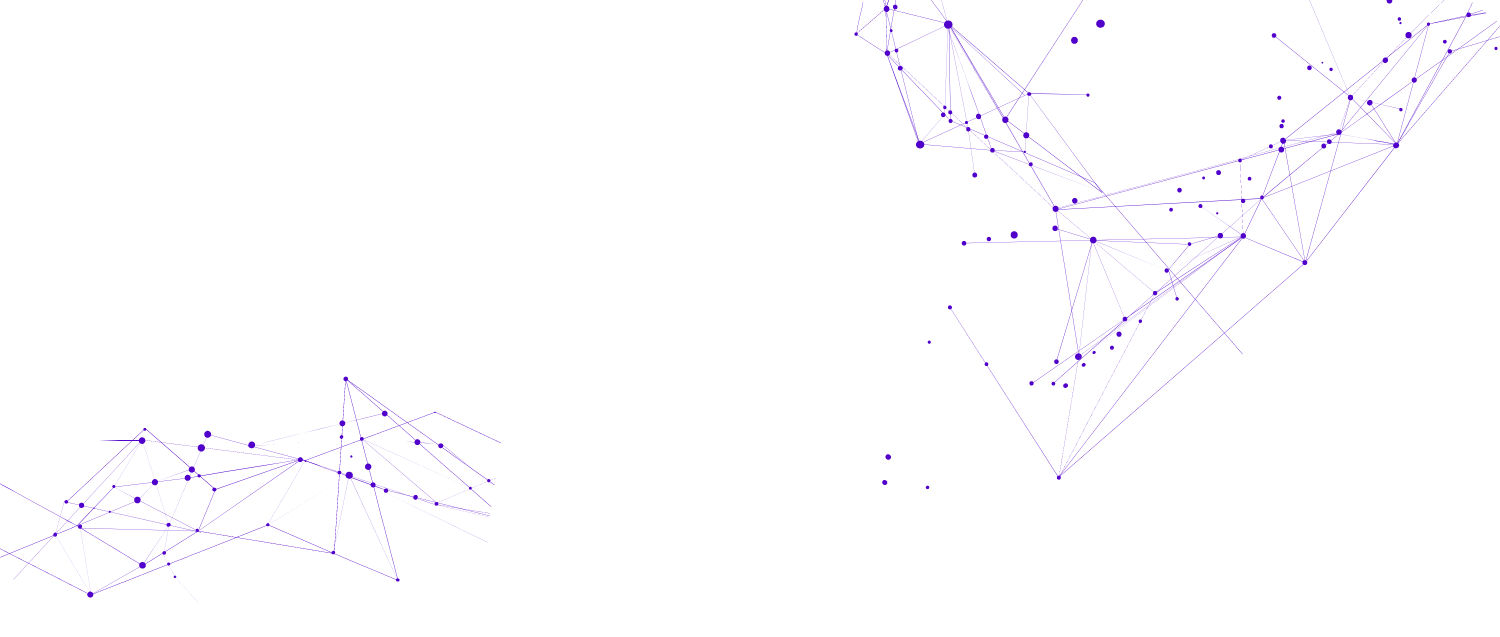
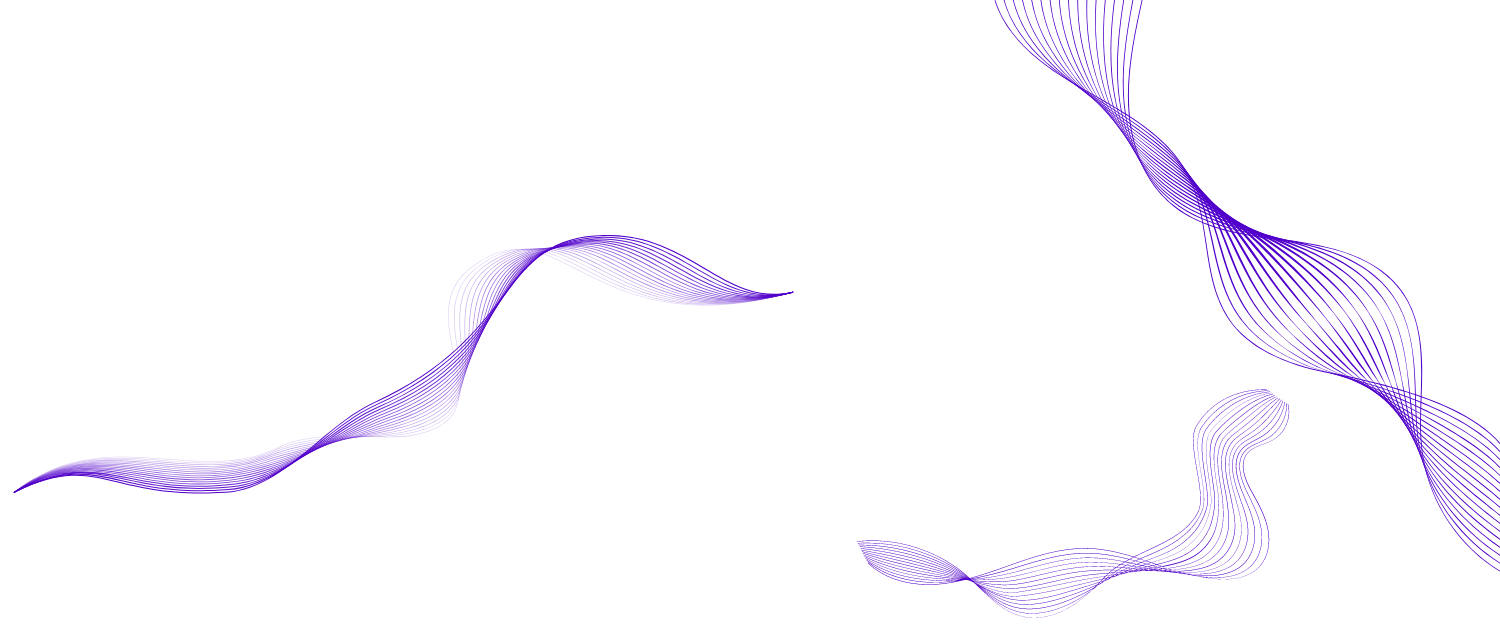
Add nav menu scrolling feature

diff --git a/src/index.scss b/src/index.scss
@@ -6,12 +6,15 @@ body {
   -webkit-font-smoothing: antialiased;
   -moz-osx-font-smoothing: grayscale;
   font-size: 1.1rem !important;
-  background-color: #0d1116 !important;
 }
 
 code {
   font-family: source-code-pro, Menlo, Monaco, Consolas, 'Courier New', monospace !important;
   font-size: 1rem !important;
+}
+
+.main-container {
+  background-color: #0d1116;
 }
 
 a {
@@ -37,6 +40,10 @@ p, a, h1, h2, h3, h4, h5, label, button {
     font-family: "Lato", sans-serif;
     text-transform: initial;
     padding: 6px 10px;
+  }
+
+  svg {
+    cursor: pointer;
   }
 }
 
@@ -81,6 +88,52 @@ p, a, h1, h2, h3, h4, h5, label, button {
   display: flex;
   flex-direction: column;
   justify-content: center;
+}
+
+.light-mode {
+  background-color: #f8f9fa;
+
+  .navigation-bar {
+    background-color: #f8f9fa;
+  }
+
+  p, a, h1, h2, h3, h4, h5, label, button {
+    color: #0d1116;
+  }
+
+  a:hover {
+    color: #5000ca;
+    transition: color .15s ease-in-out,background-color .15s ease-in-out,border-color .15s ease-in-out;
+  }
+
+  .navigation-bar svg {
+    color: #0d1116;
+  }
+
+  .skills-container svg {
+    color: #0d1116;
+  }
+
+  .chip {
+    background-color: rgba(0, 0, 0, 0.08);
+    box-shadow: 0px 3px 1px -2px rgba(0, 0, 0, 0.2), 0px 2px 2px 0px rgba(0, 0, 0, 0.14), 0px 1px 5px 0px rgba(0, 0, 0, 0.12);
+  }
+
+  .vertical-timeline::before {
+    background-color: rgba(0, 0, 0, 0.08);
+  }
+
+  .vertical-timeline--animate .vertical-timeline-element-content.bounce-in {
+    box-shadow: 0px 3px 1px -2px rgba(0, 0, 0, 0.2), 0px 2px 2px 0px rgba(0, 0, 0, 0.14), 0px 1px 5px 0px rgba(0, 0, 0, 0.12);
+  }
+
+  .vertical-timeline--two-columns .vertical-timeline-element-content .vertical-timeline-element-date {
+    color: gray;
+  }
+
+  .vertical-timeline-element-content-arrow {
+    border-right: 7px solid rgba(0, 0, 0, 0.08) !important;
+  }
 }
 
 @media screen {

diff --git a/src/App.jsx b/src/App.jsx
@@ -1,0 +1,40 @@
+import React, {useState} from "react";
+import {
+  Main,
+  Timeline,
+  Expertise,
+  Project,
+  Contact,
+  Navigation,
+  Footer,
+} from "./components";
+import FadeIn from 'react-fade-in';
+import './index.scss';
+
+function App() {
+    const [mode, setMode] = useState('dark');
+
+    const handleModeChange = () => {
+        if (mode === 'dark') {
+            setMode('light');
+        } else {
+            setMode('dark');
+        }
+    }
+
+    return (
+    <div className={`main-container ${mode === 'dark' ? 'dark-mode' : 'light-mode'}`}>
+        <Navigation parentToChild={{mode}} modeChange={handleModeChange}/>
+        <FadeIn transitionDuration={700}>
+            <Main/>
+            <Expertise/>
+            <Timeline/>
+            <Project/>
+            <Contact/>
+        </FadeIn>
+        <Footer />
+    </div>
+    );
+}
+
+export default App;

diff --git a/src/components/Navigation.jsx b/src/components/Navigation.jsx
@@ -3,6 +3,7 @@ import AppBar from '@mui/material/AppBar';
 import Box from '@mui/material/Box';
 import Button from '@mui/material/Button';
 import CssBaseline from '@mui/material/CssBaseline';
+import DarkModeIcon from '@mui/icons-material/DarkMode';
 import Divider from '@mui/material/Divider';
 import Drawer from '@mui/material/Drawer';
 import IconButton from '@mui/material/IconButton';
@@ -18,7 +19,9 @@ import Toolbar from '@mui/material/Toolbar';
 const drawerWidth = 240;
 const navItems = [['Expertise', 'expertise'], ['History', 'history'], ['Projects', 'projects'], ['Contact', 'contact']];
 
-function Navigation() {
+function Navigation({parentToChild, modeChange}) {
+
+  const {mode} = parentToChild;
 
   const [mobileOpen, setMobileOpen] = useState(false);
   const [scrolled, setScrolled] = useState(false);
@@ -43,6 +46,17 @@ function Navigation() {
     };
   }, []);
 
+  const scrollToSection = (section) => {
+    console.log(section)
+    const expertiseElement = document.getElementById(section);
+    if (expertiseElement) {
+      expertiseElement.scrollIntoView({ behavior: 'smooth' });
+      console.log('Scrolling to:', expertiseElement);  // Debugging: Ensure the element is found
+    } else {
+      console.error('Element with id "expertise" not found');  // Debugging: Log error if element is not found
+    }
+  };
+
   const drawer = (
     <Box className="navigation-bar-responsive" onClick={handleDrawerToggle} sx={{ textAlign: 'center' }}>
       <p className="mobile-menu-top"><ListIcon/>Menu</p>
@@ -50,7 +64,7 @@ function Navigation() {
       <List>
         {navItems.map((item) => (
           <ListItem key={item[0]} disablePadding>
-            <ListItemButton sx={{ textAlign: 'center' }} onClick={() => document.getElementById(item[1]).scrollIntoView()}>
+            <ListItemButton sx={{ textAlign: 'center' }} onClick={() => scrollToSection(item[1])}>
               <ListItemText primary={item[0]} />
             </ListItemButton>
           </ListItem>
@@ -73,10 +87,14 @@ function Navigation() {
           >
             <MenuIcon />
           </IconButton>
-          <LightModeIcon/>
+          {mode === 'dark' ? (
+            <LightModeIcon onClick={() => modeChange()}/>
+          ) : (
+            <DarkModeIcon onClick={() => modeChange()}/>
+          )}
           <Box sx={{ display: { xs: 'none', sm: 'block' } }}>
             {navItems.map((item) => (
-              <Button key={item[0]} onClick={() => document.getElementById(item[1]).scrollIntoView()} sx={{ color: '#fff' }}>
+              <Button key={item[0]} onClick={() => scrollToSection(item[1])} sx={{ color: '#fff' }}>
                 {item[0]}
               </Button>
             ))}

diff --git a/src/index.js b/src/index.js
@@ -1,30 +1,11 @@
 import React from "react";
 import ReactDOM from "react-dom";
 import * as serviceWorker from "./serviceWorker";
-import {
-  Main,
-  Timeline,
-  Expertise,
-  Project,
-  Contact,
-  Navigation,
-  Footer,
-} from "./components";
-import FadeIn from 'react-fade-in';
+import App from './App';
 import './index.scss';
 
 ReactDOM.render(
-  <>
-    <Navigation />
-    <FadeIn transitionDuration={700}>
-      <Main/>
-      <Expertise/>
-      <Timeline/>
-      <Project/>
-      <Contact/>
-    </FadeIn>
-    <Footer />
-  </>,
+  <App/>,
 
   document.getElementById("root")
 );

diff --git a/src/assets/styles/Main.scss b/src/assets/styles/Main.scss
@@ -6,6 +6,9 @@
     width: 100%;
     padding: 0px 15%;
     min-height: 650px;
+    background-position: right;
+    background-repeat: no-repeat;
+    background-size: cover;
     background-image: url("../images/bg.png");
 }
 